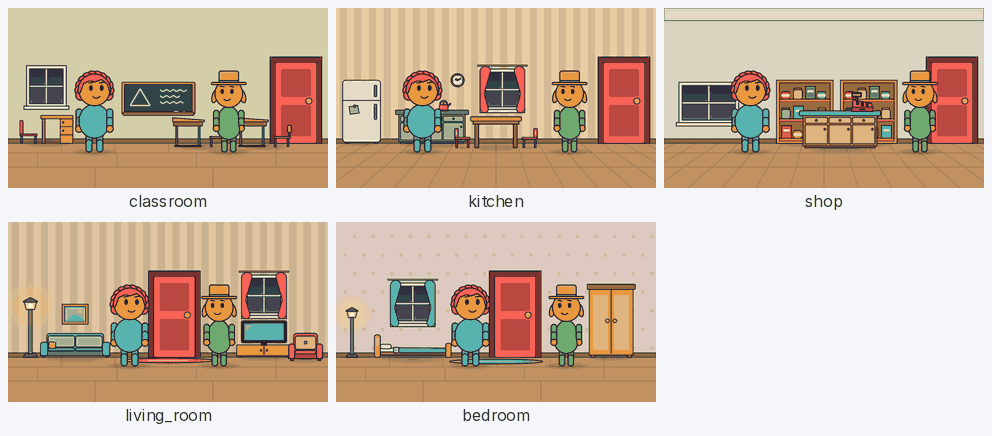
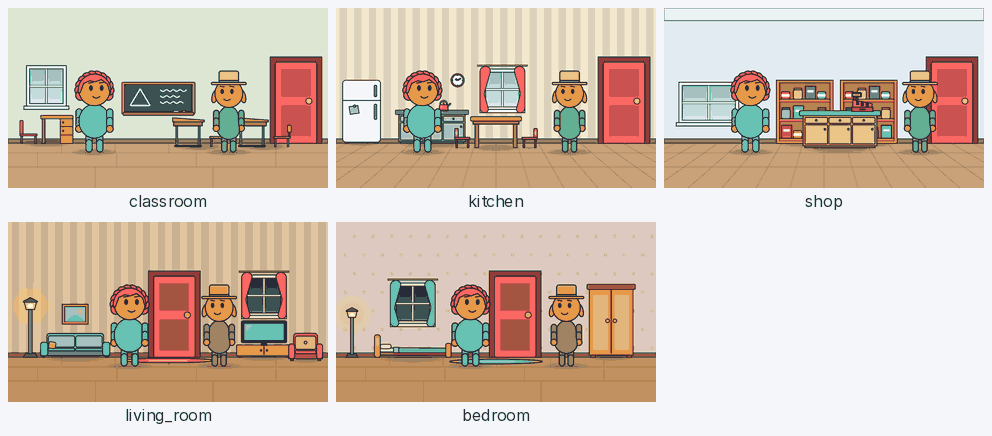
Ready-made rooms: daylight in the classroom, kitchen and shop
They used light: indoor, so their windows showed an evening sky. Homes
(living room, bedroom) keep the warm indoor light. Gallery still redone.

Claude-Session: https://claude.ai/code/session_019dnUhQr2V3uxDgrcPF2jrF

diff --git a/tests/test_builtin_sets.py b/tests/test_builtin_sets.py
@@ -118,10 +118,12 @@ def test_new_props_build_seat_and_lie_flat() -> None:
 
 
 @pytest.mark.parametrize("name", INDOOR_SETS)
-def test_each_room_has_a_door_windows_indoor_light_and_room_tone(name: str) -> None:
+def test_each_room_has_a_door_windows_its_light_and_room_tone(name: str) -> None:
     params = stage_params(**builtin_sets()[name])
     assert params.room is not None and params.room.doors and params.room.windows
-    assert params.light == "indoor" and params.ambience == "room_tone"
+    # Daytime places get daylight (a day sky in the windows); homes get the warm indoor light.
+    expected = "day" if name in {"classroom", "kitchen", "shop"} else "indoor"
+    assert params.light == expected and params.ambience == "room_tone"
     assert params.door_names() == ["door"] and "door" in params.stage_marks()
 
 

diff --git a/DESIGN.md b/DESIGN.md
@@ -10014,7 +10014,7 @@ outdoor ones by §76's lookup unchanged.
   `living_room`, `bedroom`. `_read_builtin_sets` reads the files sorted by name, so the rooms come
   first in `builtin_sets()` and in validate's "built-in sets:" list. Each is a `room:` (wall
   colour, wallpaper, flooring, one door named `door`, one window; the shop a ceiling and a wide
-  shop window without curtains), `light: indoor`, `ambience: room_tone` (what `auto` picks in a
+  shop window without curtains), `light: day` (classroom, kitchen, shop) or `light: indoor` (living room, bedroom), `ambience: room_tone` (what `auto` picks in a
   room, written out), marks `stand_left` / `stand_right` (two characters at depth 0, clear of
   every prop within 0.15 of their depth; checked by `test_marks_are_inside_the_stage_and_clear_of_the_props`,
   which now counts doors and furniture at the wall's depth through `Params.stage_props()` and checks

diff --git a/AGENTS.md b/AGENTS.md
@@ -883,7 +883,7 @@ asks for one, say vidgen makes original characters and offer one with the same r
   stage: `shop`, `bench` and `log` (sit two), `bus_stop`, `fountain`, `flowers`, `fence`,
   `beach_umbrella`, `shell`, `pine`, `mushroom`, and flat `road` / `path` bands.
 - **Ready-made rooms**: `set: classroom`, `kitchen`, `shop`, `living_room` or `bedroom` gives a
-  furnished room (a door, windows, `light: indoor`, a room tone) with the same `stand_left` /
+  furnished room (a door, windows, daylight or lamplight, a room tone) with the same `stand_left` /
   `stand_right` marks. Furniture stands at the wall (depth 0.4): to sit or lean, walk there first
   (`- walk_to: pip, to: {mark: sofa, depth: 0.4}`, then `- sit_on: pip, to: sofa`); pupils' desks
   are at depth 0.25 (marks `pupil`, `pupil_2`), the kitchen table and chairs at 0.2. `light: day`

diff --git a/src/vidgen/data/guide/AGENTS.md b/src/vidgen/data/guide/AGENTS.md
@@ -883,7 +883,7 @@ asks for one, say vidgen makes original characters and offer one with the same r
   stage: `shop`, `bench` and `log` (sit two), `bus_stop`, `fountain`, `flowers`, `fence`,
   `beach_umbrella`, `shell`, `pine`, `mushroom`, and flat `road` / `path` bands.
 - **Ready-made rooms**: `set: classroom`, `kitchen`, `shop`, `living_room` or `bedroom` gives a
-  furnished room (a door, windows, `light: indoor`, a room tone) with the same `stand_left` /
+  furnished room (a door, windows, daylight or lamplight, a room tone) with the same `stand_left` /
   `stand_right` marks. Furniture stands at the wall (depth 0.4): to sit or lean, walk there first
   (`- walk_to: pip, to: {mark: sofa, depth: 0.4}`, then `- sit_on: pip, to: sofa`); pupils' desks
   are at depth 0.25 (marks `pupil`, `pupil_2`), the kitchen table and chairs at 0.2. `light: day`

diff --git a/docs/CONFIG.md b/docs/CONFIG.md
@@ -638,7 +638,7 @@ scenes using it again.
 ### Ready-made rooms (`set: classroom`)
 
 Five built-in sets are [rooms](#rooms-room): a wall, a floor, a door (`door`, a mark too: `enter`
-/ `exit` with `door: door`), windows, furniture against the wall, `light: indoor` (lamplight;
+/ `exit` with `door: door`), windows, furniture against the wall, `light: day` in the classroom, kitchen and shop (a day sky in the windows), `light: indoor` in the living room and bedroom (lamplight;
 the windows show the evening sky) and `ambience: room_tone`. They work like the outdoor sets
 above, with the same two clear marks `stand_left` and `stand_right` at depth 0. The room merges
 key by key (`room: {wallpaper: dots}` keeps the set's door and windows; `room: {windows: []}`
